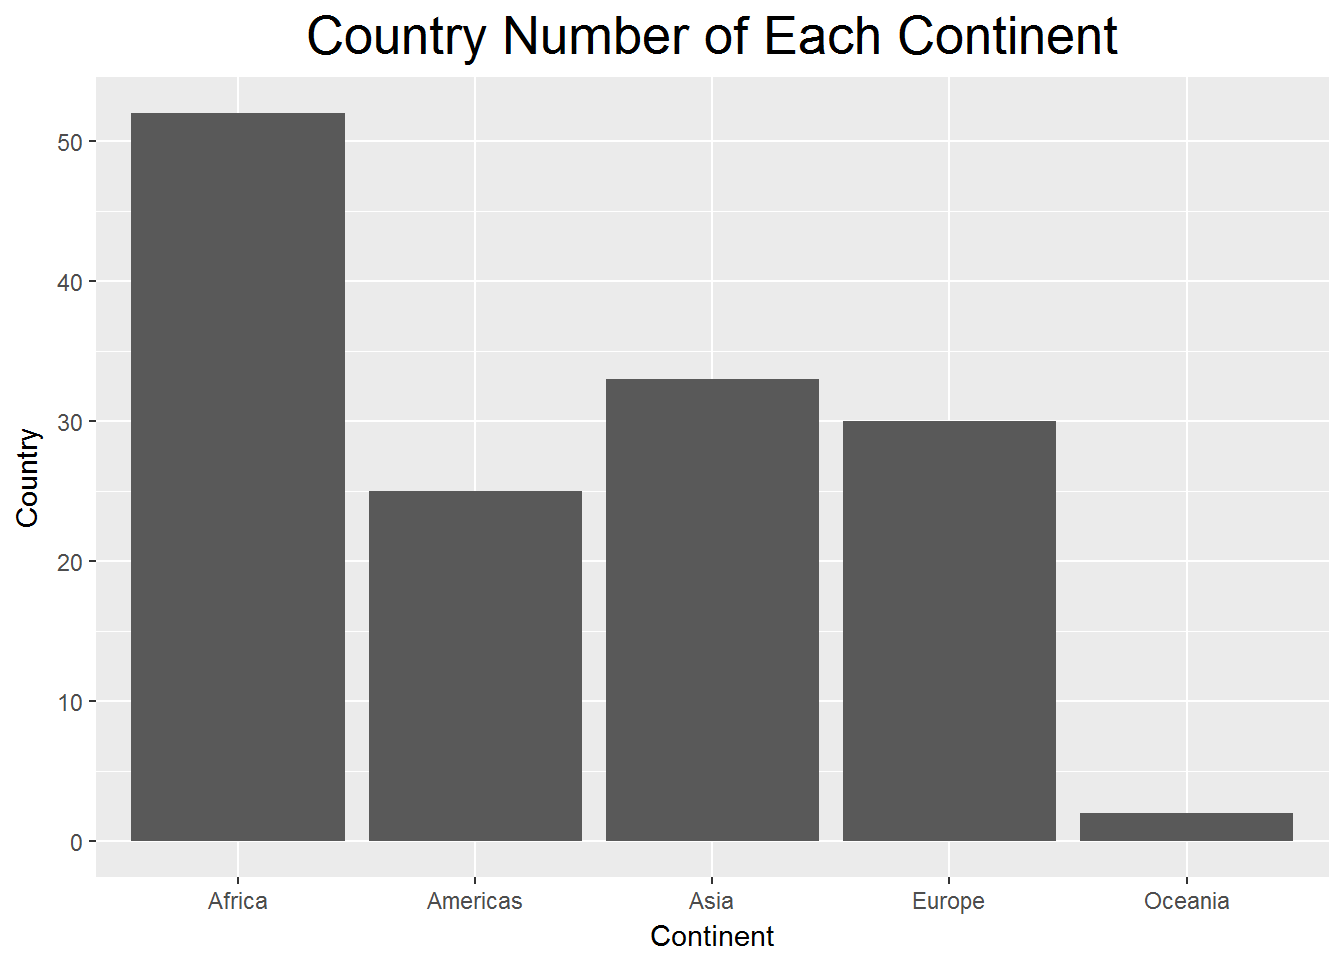
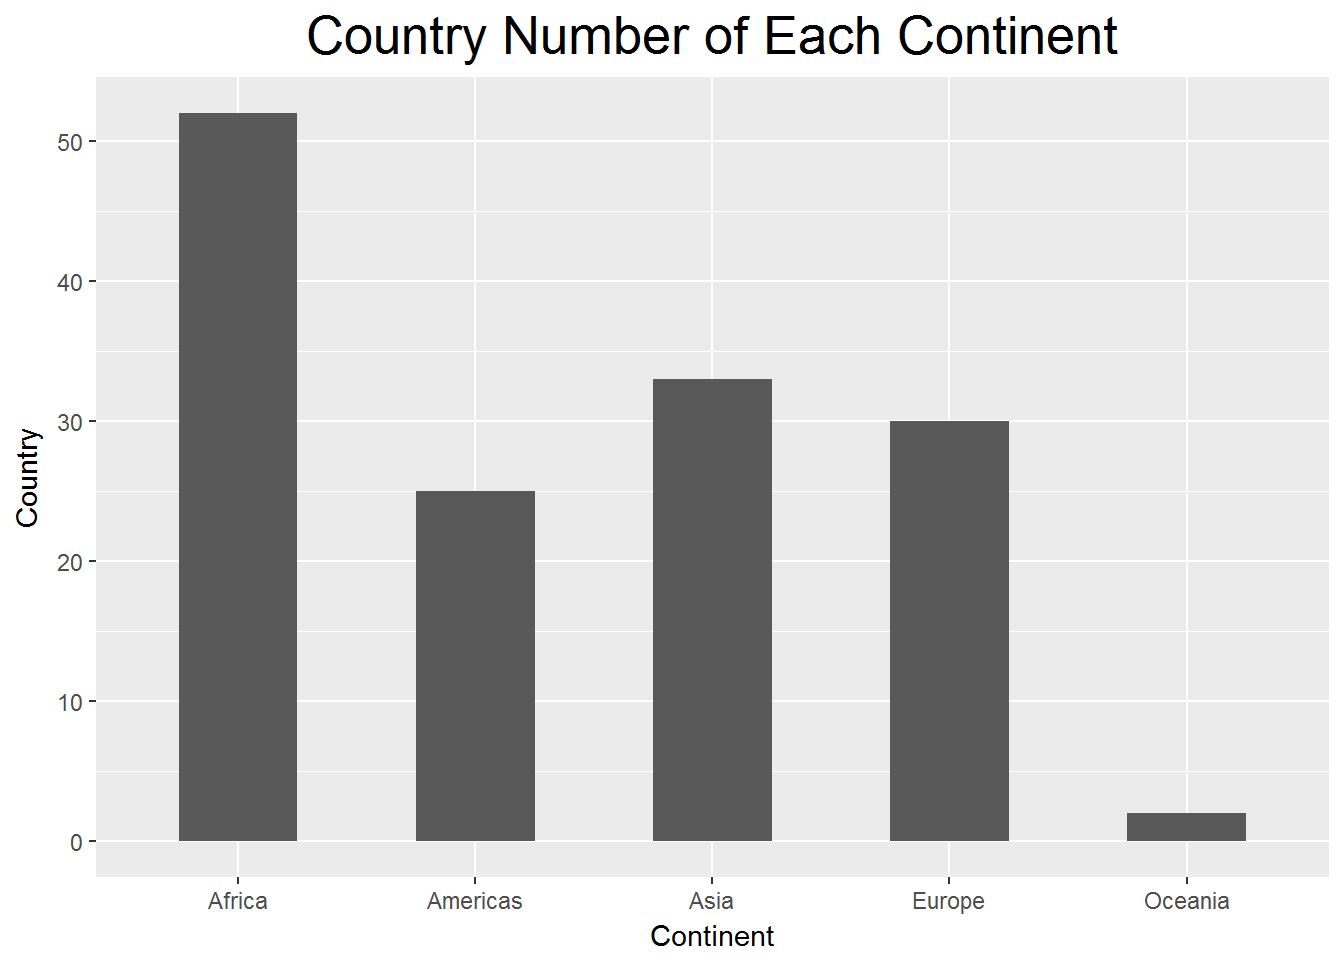
UPDATE IWA

diff --git a/Interactive_Web_App.html b/Interactive_Web_App.html
@@ -357,7 +357,7 @@ kable(table.1,col.names=c(&quot;Continent&quot;,&quot;Country&quot;),align=&quot
 </tbody>
 </table>
 <pre class="r"><code>ggplot(data=table.1)+
-  geom_col(mapping=aes(Continent,Country))+
+  geom_col(mapping=aes(Continent,Country),width=0.5)+
   ggtitle(&quot;Country Number of Each Continent&quot;)+
   xlab(&quot;Continent&quot;)+
   ylab(&quot;Country&quot;)+
@@ -370,16 +370,15 @@ kable(table.1,col.names=c(&quot;Continent&quot;,&quot;Country&quot;),align=&quot
 le=data.frame(t(le))
 Year=seq(from=1952,to=2007,by=5)
 le=cbind(Year,le)
-row.names(le)=1:12
 le=gather(data=le,Continent,Average.Life.Expectancy,-Year)
-p=ggplot(data=le,aes(x=Year,y=Average.Life.Expectancy,color=Continent))+
+p1=ggplot(data=le,aes(x=Year,y=Average.Life.Expectancy,color=Continent))+
   geom_point()+
   geom_line()+
   ggtitle(&quot;Average Life Expectancy&quot;)+
   xlab(&quot;Year&quot;)+
   ylab(&quot;Life Expectancy (Years)&quot;)+
   theme(plot.title=element_text(size=20,hjust=0.5))
-p</code></pre>
+p1</code></pre>
 <p><img src="Interactive_Web_App_files/figure-html/V2-1.png" width="672" style="display: block; margin: auto;" /></p>
 <div id="life-expectancy-for-every-countries-in-americas" class="section level3">
 <h3><font face="Baskerville Old Face">2.1 Life Expectancy for Every Countries in Americas</font></h3>
@@ -468,10 +467,18 @@ kable(sle,align=&quot;c&quot;)</code></pre>
 <div id="according-to-the-data-available-what-was-the-average-population-across-each-continent-from-1952-to-2007" class="section level2">
 <h2><font face="Baskerville Old Face">3. According to the data available, what was the average <em>Population</em> across each continent from 1952 to 2007?</font></h2>
 <pre class="r"><code>pop=tapply(gapminder$Population,list(gapminder$Continent,gapminder$Year),mean)
-pop.data=t(data.frame(pop))
-row.names(pop.data)=seq(1952,2007,5)
-matplot(seq(1952,2007,5),pop.data,type=&quot;l&quot;,col=1:5,lty=1,xlab=&quot;Years&quot;,ylab=&quot;Population&quot;)
-legend(&quot;topleft&quot;,legend=c(&quot;Africa&quot;,&quot;Americas&quot;,&quot;Asia&quot;,&quot;Europe&quot;,&quot;Ocenia&quot;),col=1:5,lty=1,cex=1)</code></pre>
+pop=data.frame(t(pop))
+Year=seq(from=1952,to=2007,by=5)
+pop=cbind(Year,pop)
+pop=gather(data=pop,Continent,Population,-Year)
+p2=ggplot(data=pop,aes(x=Year,y=Population,color=Continent))+
+  geom_point()+
+  geom_line()+
+  ggtitle(&quot;Average Population&quot;)+
+  xlab(&quot;Year&quot;)+
+  ylab(&quot;Population&quot;)+
+  theme(plot.title=element_text(size=20,hjust=0.5))
+p2</code></pre>
 <p><img src="Interactive_Web_App_files/figure-html/V3-1.png" width="672" style="display: block; margin: auto;" /></p>
 <div id="population-for-every-countries-in-americas" class="section level3">
 <h3><font face="Baskerville Old Face">3.1 Population for Every Countries in Americas</font></h3>
@@ -486,10 +493,18 @@ matplot(seq(1952,2007,5),pop.Americas,type=&quot;l&quot;,lty=1,xlab=&quot;Years&
 <div id="according-to-the-data-available-what-was-the-average-gdp-per-capita-across-each-continent-from-1952-to-2007" class="section level2">
 <h2><font face="Baskerville Old Face">4. According to the data available, what was the average <em>GDP per Capita</em> across each continent from 1952 to 2007?</font></h2>
 <pre class="r"><code>gdp=tapply(gapminder$GDP.per.Capita,list(gapminder$Continent,gapminder$Year),mean)
-gdp.data=t(data.frame(gdp))
-row.names(gdp.data)=seq(1952,2007,5)
-matplot(seq(1952,2007,5),gdp.data,type=&quot;l&quot;,col=1:5,lty=1,xlab=&quot;Years&quot;,ylab=&quot;GDP Per Capita&quot;)
-legend(&quot;topleft&quot;,legend=c(&quot;Africa&quot;,&quot;Americas&quot;,&quot;Asia&quot;,&quot;Europe&quot;,&quot;Ocenia&quot;),col=1:5,lty=1,cex=1)</code></pre>
+gdp=data.frame(t(gdp))
+Year=seq(from=1952,to=2007,by=5)
+gdp=cbind(Year,gdp)
+gdp=gather(data=gdp,Continent,GDP.per.Capita,-Year)
+p3=ggplot(data=gdp,aes(x=Year,y=GDP.per.Capita,color=Continent))+
+  geom_point()+
+  geom_line()+
+  ggtitle(&quot;Average GDP per Capita&quot;)+
+  xlab(&quot;Year&quot;)+
+  ylab(&quot;GDP per Capita&quot;)+
+  theme(plot.title=element_text(size=20,hjust=0.5))
+p3</code></pre>
 <p><img src="Interactive_Web_App_files/figure-html/V4-1.png" width="672" style="display: block; margin: auto;" /></p>
 <div id="gdp-per-capita-for-every-countries-in-americas" class="section level3">
 <h3><font face="Baskerville Old Face">4.1 GDP Per Capita for Every Countries in Americas</font></h3>
